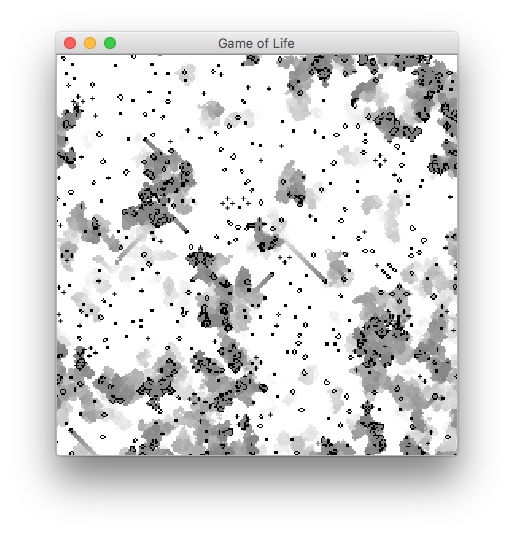
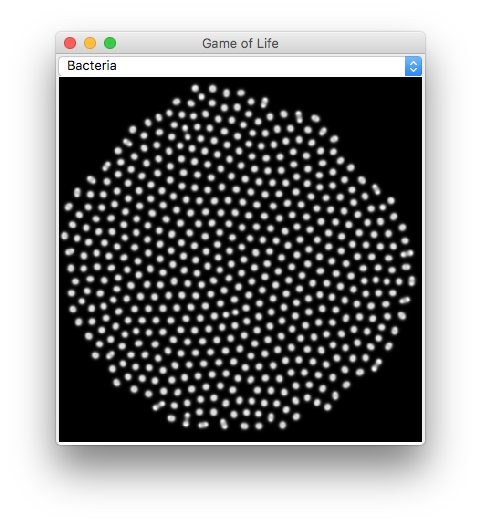
Gray-Scott Reaction Diffusion System

diff --git a/life.py b/life.py
@@ -1,13 +1,15 @@
-from PyQt5.QtWidgets import QApplication, QWidget, QGraphicsScene, QGraphicsView, QGridLayout, QFrame
+from PyQt5.QtWidgets import QApplication, QWidget, QComboBox, QGraphicsScene, QGraphicsView, QVBoxLayout, QFrame, QSizePolicy
 from PyQt5.QtCore import Qt, QSize, QTimer
 from PyQt5.QtGui import QImage, QPixmap
 import numpy as np
+import random
 import sys
 
 
 class GameOfLife:
-    def __init__(self, size=(400, 400), timeout=50, fill_rate=0.25):
+    def __init__(self, size=(400, 400), timeout=50, fill_rate=0.50):
         self.world = (np.random.random(size=size) < fill_rate).astype(np.uint8)
+        self.visualization = 255 * np.ones(shape=size, dtype=np.uint8)
         self.neighbors = np.zeros(shape=size, dtype=np.uint8)
         self.delegate = None
         self.timer = QTimer()
@@ -27,44 +29,123 @@ class GameOfLife:
         survive = (((self.neighbors == 2) | (self.neighbors == 3)) & (self.world == 1))
         self.world[:, :] = 0
         self.world[birth | survive] = 1
-        if self.delegate is not None: self.delegate.tickEvent(self.world)
+
+        if self.delegate is not None:
+            image = self.visualize()
+            self.delegate.tickEvent(image)
+
+    def visualize(self):
+        self.visualization += (self.visualization < 255).astype(np.uint8)
+        self.visualization = self.visualization.clip(128, 255)
+        self.visualization[(self.world == 1)] = 0
+        return QImage(self.visualization.data, self.visualization.shape[1], self.visualization.shape[0],
+                      QImage.Format_Grayscale8)
+
+    def stop(self):
+        self.timer.stop()
+
+
+class GrayScottDiffusion:
+    def __init__(self, size=(400, 400), timeout=0, coeffs=None):
+        self.u = np.ones(shape=size, dtype=np.double)
+        self.v = np.zeros(shape=size, dtype=np.double)
+        box_xrange = int(size[0] * 0.45), int(size[0] * 0.55)
+        box_yrange = int(size[1] * 0.45), int(size[1] * 0.55)
+        self.u[box_xrange[0]:box_xrange[1], box_yrange[0]:box_yrange[1]] = 0.50
+        self.v[box_xrange[0]:box_xrange[1], box_yrange[0]:box_yrange[1]] = 0.25
+        self.u += 0.05 * np.random.uniform(-1, +1, size)
+        self.v += 0.05 * np.random.uniform(-1, +1, size)
+        if coeffs is None:
+            self.cu, self.cv, self.f, self.k = 0.10, 0.10, 0.018, 0.050
+        else:
+            self.cu, self.cv, self.f, self.k = coeffs
+        self.delegate = None
+        self.timer = QTimer()
+        self.timer.setInterval(timeout)
+        self.timer.timeout.connect(self.tick)
+
+    def start(self):
+        self.timer.start()
+
+    def tick(self):
+        laplace_u = np.zeros(shape=self.u.shape)
+        laplace_u[+1:-1, +1:-1] += self.u[+1:-1, +2:] + \
+            self.u[:-2, +1:-1] - 4*self.u[+1:-1, +1:-1] + self.u[+2:, +1:-1] + \
+                                   self.u[+1:-1, :-2]
+        laplace_v = np.zeros(shape=self.v.shape)
+        laplace_v[+1:-1, +1:-1] += self.v[+1:-1, +2:] + \
+            self.v[:-2, +1:-1] - 4*self.v[+1:-1, +1:-1] + self.v[+2:, +1:-1] + \
+                                   self.v[+1:-1, :-2]
+        uvv = self.u * self.v * self.v
+        self.u += self.cu * laplace_u - uvv + self.f * (1 - self.u)
+        self.v += self.cv * laplace_v + uvv - (self.f + self.k) * self.v
+
+        if self.delegate is not None:
+            image = self.visualize()
+            self.delegate.tickEvent(image)
+
+    def visualize(self):
+        min, max = self.v.min(), self.v.max()
+        self.visualization = (255 * ((self.v - min) / (max - min))).astype(np.uint8)
+        return QImage(self.visualization.data, self.visualization.shape[1], self.visualization.shape[0],
+                      QImage.Format_Grayscale8)
 
     def stop(self):
         self.timer.stop()
 
 
 class QGameOfLife(QWidget):
+    games = {
+        "Game of Life": lambda size: GameOfLife(size=size),
+        "Bacteria": lambda size: GrayScottDiffusion(size=size, coeffs=(0.16, 0.08, 0.035, 0.065)),
+        "Coral": lambda size: GrayScottDiffusion(size=size, coeffs=(0.16, 0.08, 0.062, 0.062)),
+        "Fingerprint": lambda size: GrayScottDiffusion(size=size, coeffs=(0.19, 0.05, 0.060, 0.062)),
+        "Spirals": lambda size: GrayScottDiffusion(size=size, coeffs=(0.10, 0.10, 0.018, 0.050)),
+        "Unstable": lambda size: GrayScottDiffusion(size=size, coeffs=(0.16, 0.08, 0.020, 0.055)),
+        "Worms": lambda size: GrayScottDiffusion(size=size, coeffs=(0.16, 0.08, 0.050, 0.065)),
+        "Zebrafish": lambda size: GrayScottDiffusion(size=size, coeffs=(0.16, 0.08, 0.035, 0.060)),
+    }
+
     def __init__(self, size=(400, 400)):
         super(QGameOfLife, self).__init__()
-        self.gameOfLife = GameOfLife(size=size, timeout=10, fill_rate=0.50)
-        self.gameOfLife.delegate = self
-        self.gameOfLife.start()
+        self.game = None
         self.size = size
         self.initUI()
         self.show()
 
     def initUI(self):
         self.setWindowTitle(self.tr("Game of Life"))
-        self.setLayout(QGridLayout())
+        self.setLayout(QVBoxLayout())
         self.layout().setSpacing(0)
         self.layout().setContentsMargins(0, 0, 0, 0)
+
+        self.comboBox = QComboBox()
+        self.comboBox.addItems(self.games.keys())
+        self.comboBox.currentTextChanged.connect(self.gameEvent)
+        self.layout().addWidget(self.comboBox)
 
         self.scene = QGraphicsScene()
         self.item = None
         self.view = QGraphicsView(self.scene)
         self.view.setHorizontalScrollBarPolicy(Qt.ScrollBarAlwaysOff)
         self.view.setVerticalScrollBarPolicy(Qt.ScrollBarAlwaysOff)
+        self.view.setSizePolicy(QSizePolicy(QSizePolicy.Preferred, QSizePolicy.Preferred));
         self.view.setFrameShape(QFrame.NoFrame)
         self.layout().addWidget(self.view)
-        self.world = np.ones(shape=self.size, dtype=np.uint8) * 255
-        self.tickEvent(self.world)
 
-    def tickEvent(self, world):
-        self.world += (self.world < np.iinfo(self.world.dtype).max)
-        self.world = self.world.clip(128, np.iinfo(self.world.dtype).max)
-        self.world[(world == 1)] = 0
+        self.tickEvent(QImage())
+        self.view.fitInView(self.item, Qt.KeepAspectRatioByExpanding)
+        self.comboBox.setCurrentText(random.choice(list(self.games.keys())))
+
+    def gameEvent(self, name):
+        if self.game is not None: self.game.stop()
+        constructor = self.games[name]
+        self.game = constructor(self.size)
+        self.game.delegate = self
+        self.game.start()
+
+    def tickEvent(self, image):
         self.scene.removeItem(self.item)
-        image = QImage(self.world.data, self.size[1], self.size[0], QImage.Format_Grayscale8)
         pixmap = QPixmap.fromImage(image)
         self.item = self.scene.addPixmap(pixmap)
 
@@ -72,7 +153,7 @@ class QGameOfLife(QWidget):
         self.view.fitInView(self.item, Qt.KeepAspectRatioByExpanding)
 
     def sizeHint(self):
-        return self.layout().sizeHint()
+        return QSize(self.size[0], self.size[1])
 
 
 if __name__ == "__main__":

diff --git a/readme.md b/readme.md
@@ -2,13 +2,14 @@
 
 
 ## Game of Life - `life.py`
-Simple celular automata with a fancy history fading visualization.
+Gray-Scott reaction diffusion system and a simple cellular automaton with a fancy history fading visualization bundled
+in one compact application.
 
-__How to play__: Run the game and watch.
+__How to play__: Select a game from the combo box and watch.
 
-__Details__: [Wikipedia](https://en.wikipedia.org/wiki/Conway%27s_Game_of_Life)
+__Details__: [Wikipedia](https://en.wikipedia.org/wiki/Conway%27s_Game_of_Life) [Wikipedia](https://en.wikipedia.org/wiki/Reaction%E2%80%93diffusion_system)
 
-<img src="screenshots/life-mac.png" alt="Game of Life MacOS" width="31%"> <img src="screenshots/life-lnx.png" alt="Game of Life Ubuntu" width="30%"> <img src="screenshots/life-win.png" alt="Game of Life Windows" width="30%">
+<img src="screenshots/life-mac.png" alt="Game of Life MacOS" width="30%"> <img src="screenshots/life-lnx.png" alt="Game of Life Ubuntu" width="32%"> <img src="screenshots/life-win.png" alt="Game of Life Windows" width="30%">
 
 
 
@@ -43,7 +44,7 @@ __How to play__: Get the ball to the end of the maze!
 
 __Details__: [Wikipedia](https://en.wikipedia.org/wiki/Maze)
 
-<img src="screenshots/maze-mac.png" alt="Maze MacOS" width="30%"> <img src="screenshots/maze-lnx.png" alt="Maze Ubuntu" width="30%"> <img src="screenshots/maze-win.png" alt="Maze Windows" width="30%">
+<img src="screenshots/maze-mac.png" alt="Maze MacOS" width="31%"> <img src="screenshots/maze-lnx.png" alt="Maze Ubuntu" width="30%"> <img src="screenshots/maze-win.png" alt="Maze Windows" width="30%">
 
 
 
